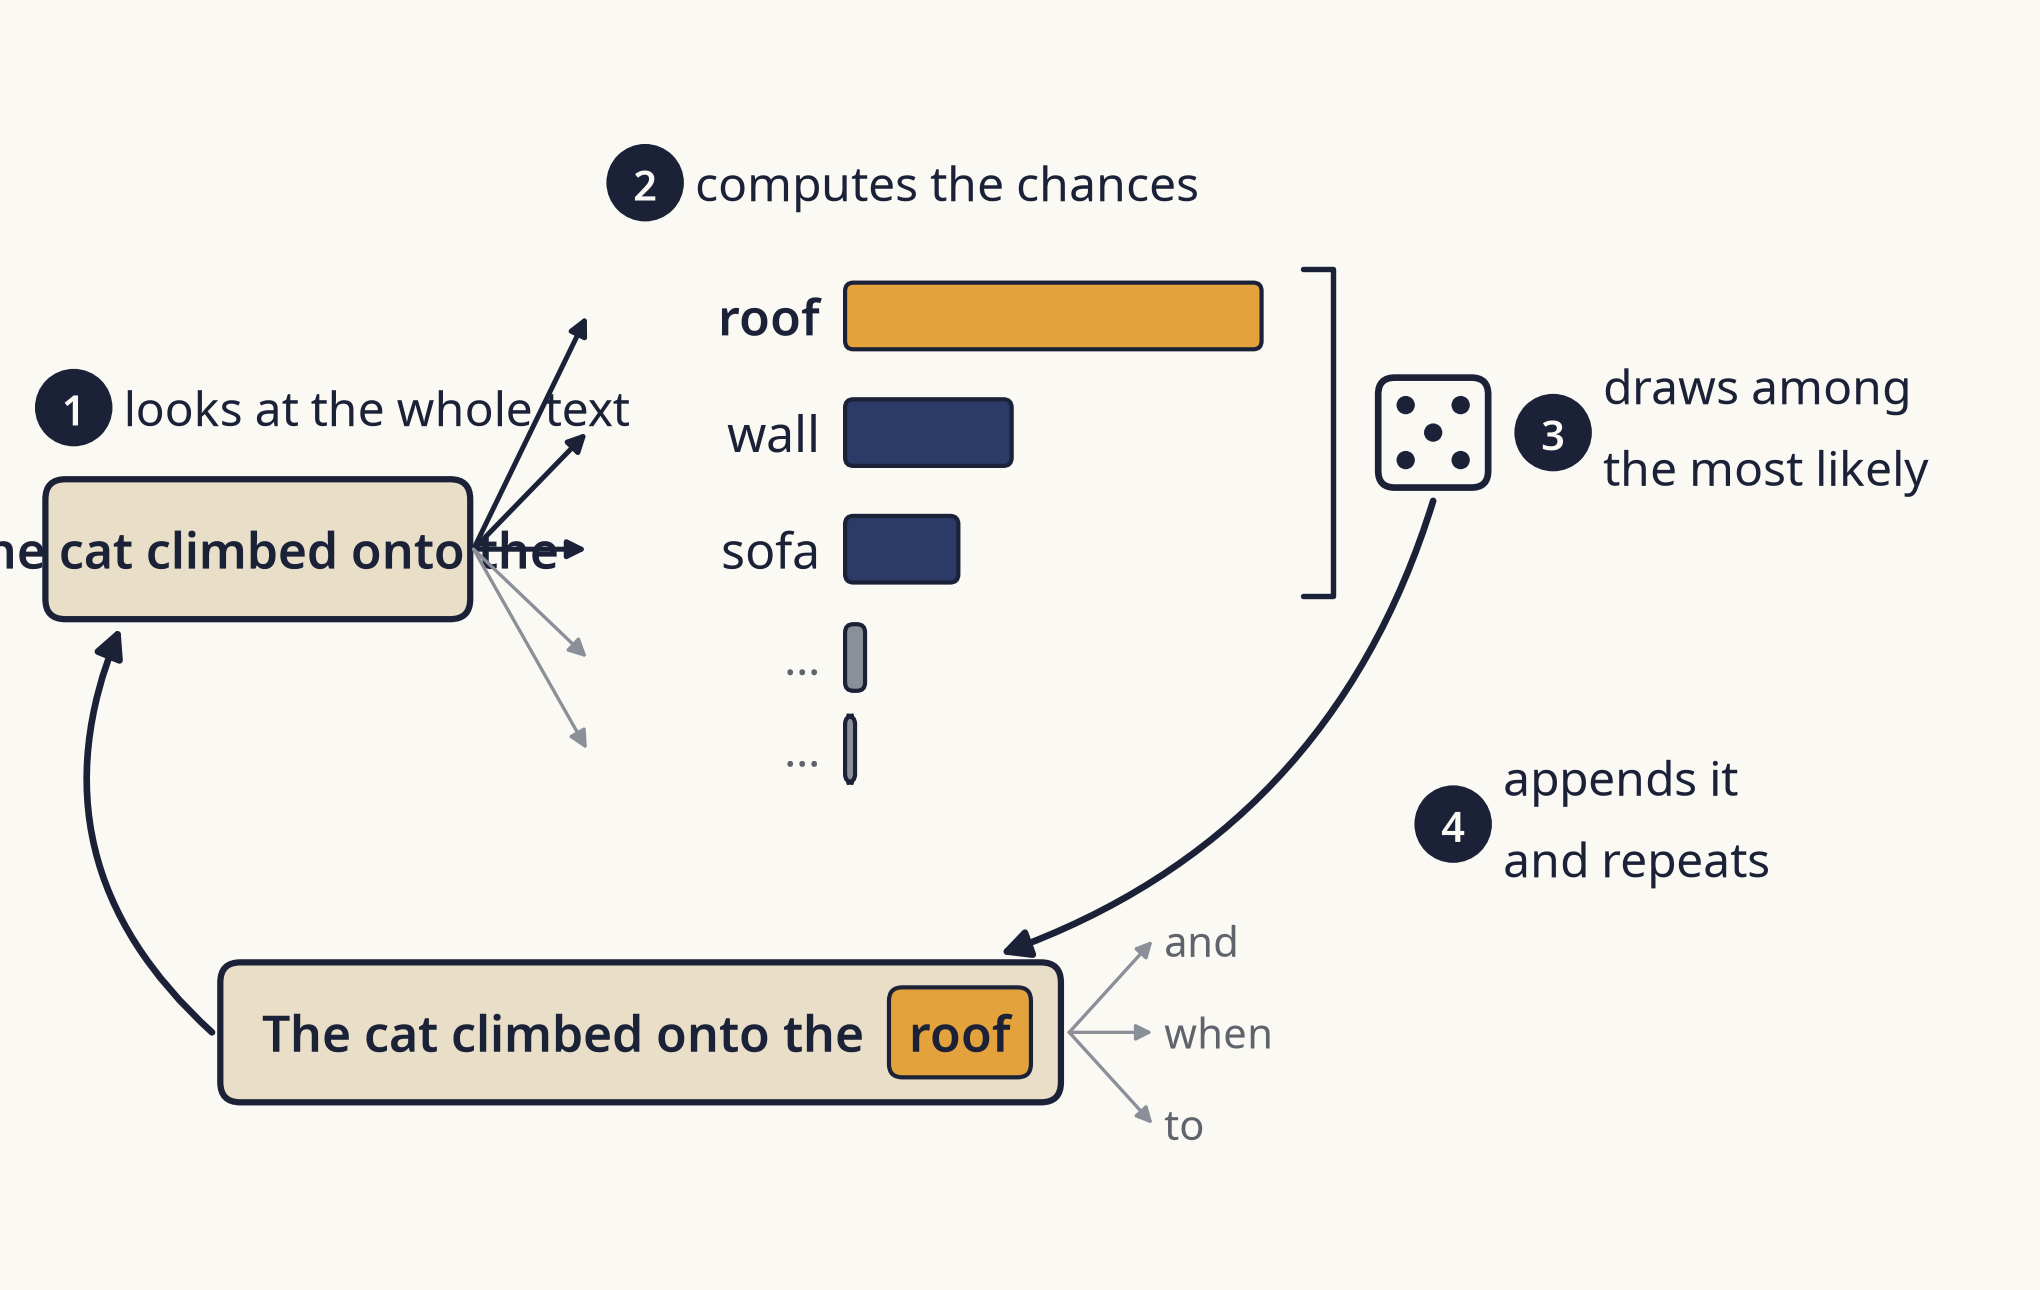
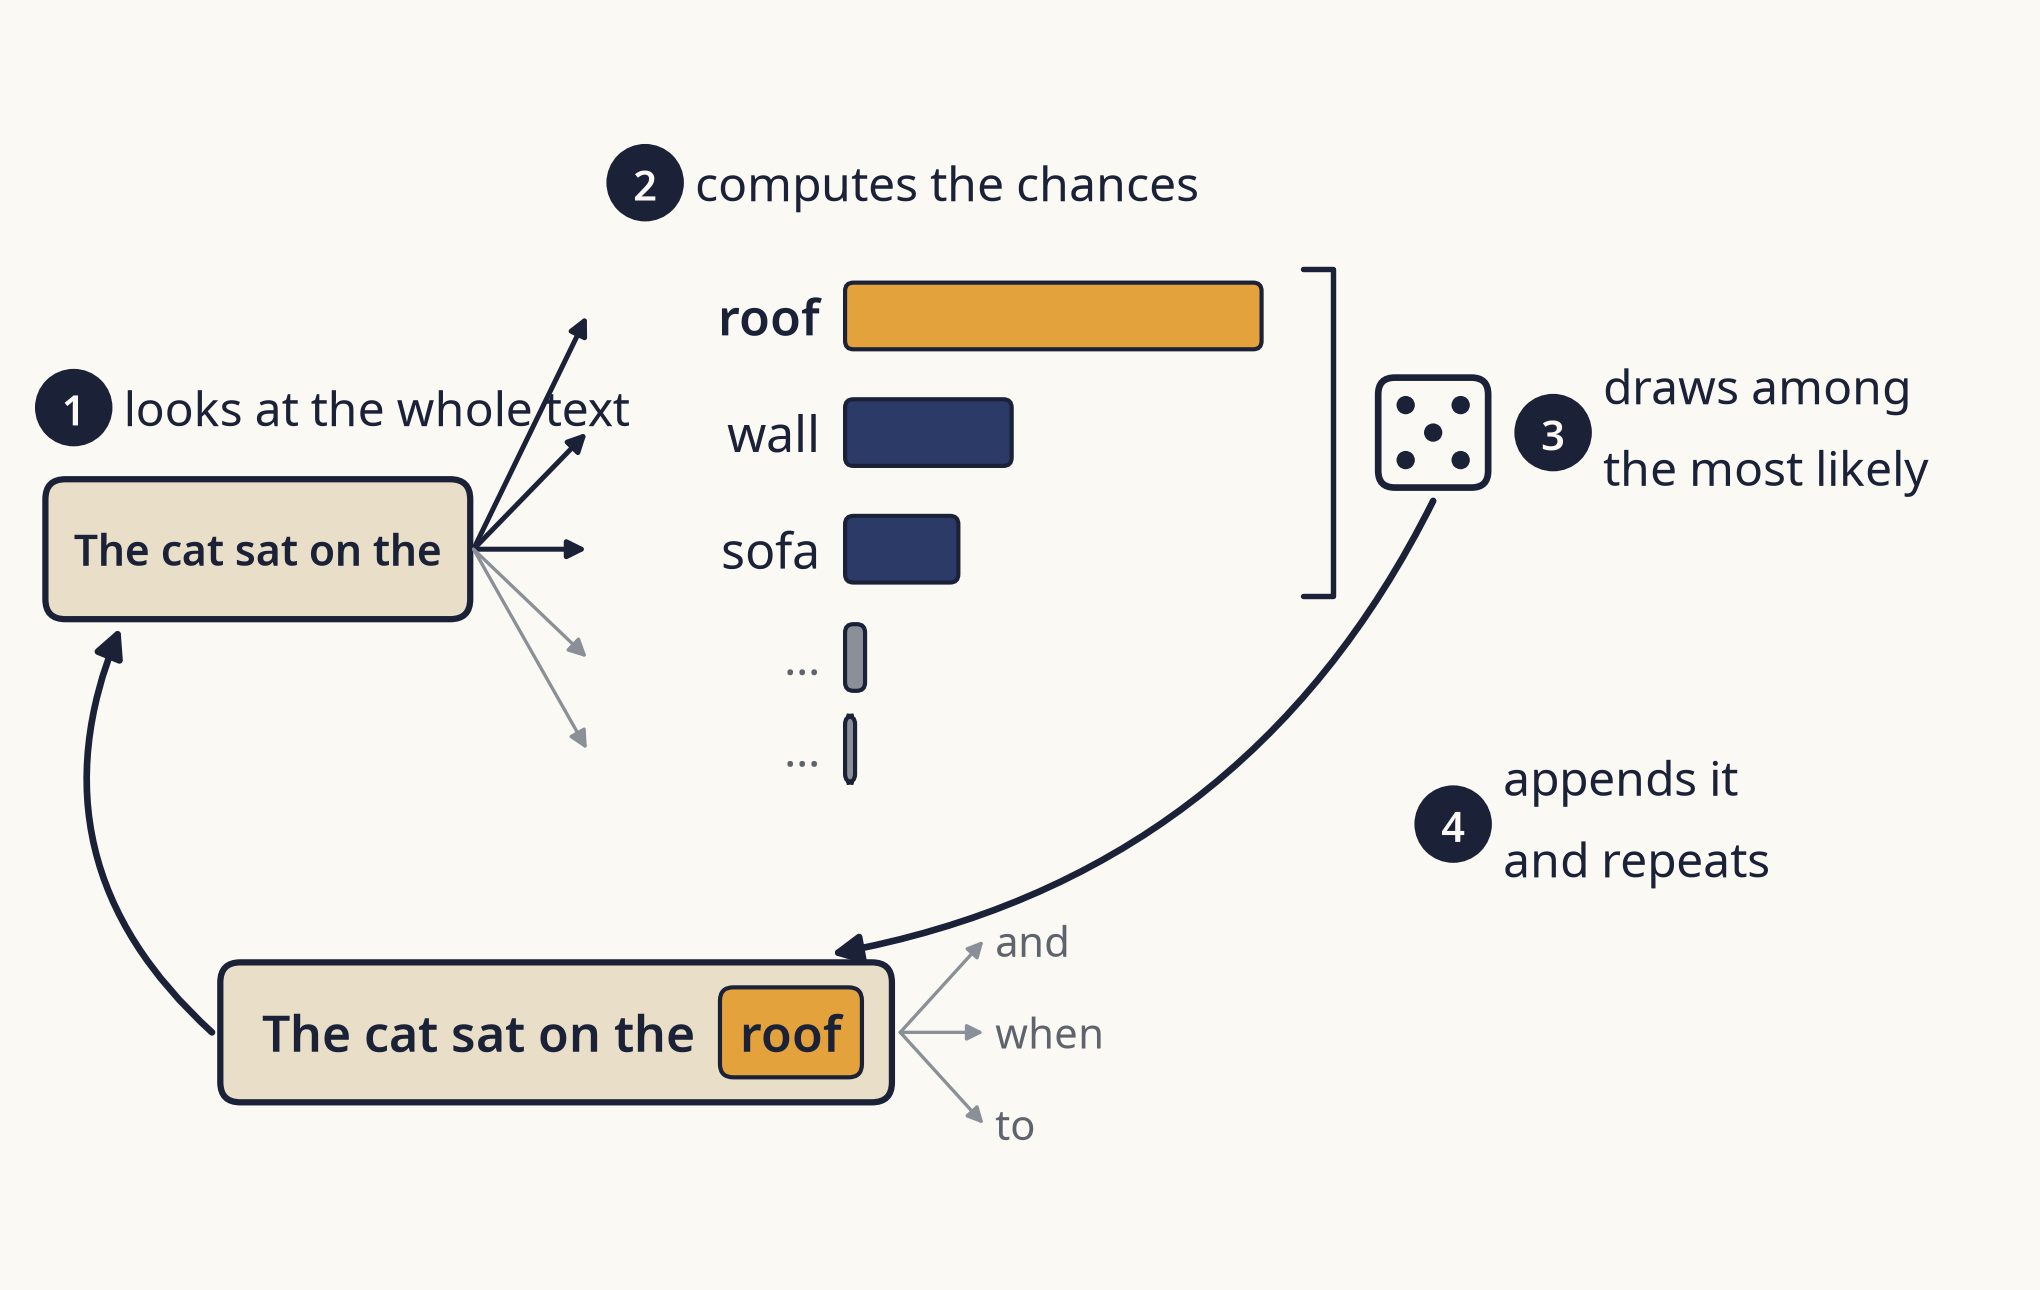
EN figures: shrink-to-fit labels in ch01/ch04 scripts; shorter EN labels so text fits its boxes

diff --git a/assets/charts/ch04-marca-dagua.py b/assets/charts/ch04-marca-dagua.py
@@ -34,7 +34,7 @@ L = {
     "pt": {"seg": ["O céu estava", "e a rua,", "…"], "f1": ("nublado", "cinzento"), "f2": ("vazia", "deserta"),
            "chave": "chave secreta", "muitas": "centenas de escolhas", "assin": "assinatura",
            "reesc": "reescrito por outro modelo", "some": "sinal some"},
-    "en": {"seg": ["The sky was", "and the street,", "…"], "f1": ("cloudy", "overcast"), "f2": ("empty", "deserted"),
+    "en": {"seg": ["The sky was", "the street", "…"], "f1": ("cloudy", "overcast"), "f2": ("empty", "deserted"),
            "chave": "secret key", "muitas": "hundreds of choices", "assin": "signature",
            "reesc": "rewritten by another model", "some": "signal gone"},
 }[LANG]
@@ -49,12 +49,27 @@ ax.axis("off")
 fig.subplots_adjust(0.01, 0.01, 0.99, 0.99)
 
 
+def fit_text(t, max_w, min_size=7.0):
+    """Shrink a text artist until it fits max_w (data units). Labels change
+    length between languages; the layout stays fixed and only the type size
+    gives way, never below min_size (house minimum ~7 pt)."""
+    fig.canvas.draw()
+    inv = ax.transData.inverted()
+    while t.get_fontsize() > min_size:
+        bb = t.get_window_extent(renderer=fig.canvas.get_renderer())
+        (x0, _), (x1, _) = inv.transform([(bb.x0, bb.y0), (bb.x1, bb.y1)])
+        if x1 - x0 <= max_w:
+            break
+        t.set_fontsize(t.get_fontsize() - 0.25)
+    return t
+
+
 def word(x, y, text, w, chosen=True, fc=PAPER, bold=False):
     ax.add_patch(FancyBboxPatch((x, y - 0.33), w, 0.66, boxstyle="round,pad=0,rounding_size=0.15", fc=fc,
                                 ec=INK if chosen else GRAY, lw=1.6 if chosen else 1.0,
                                 linestyle="-" if chosen else (0, (3, 2)), zorder=3))
-    ax.text(x + w / 2, y, text, ha="center", va="center", fontsize=11.5, color=INK if chosen else MUTED,
-            fontweight="semibold" if bold else "normal", zorder=4)
+    fit_text(ax.text(x + w / 2, y, text, ha="center", va="center", fontsize=11.5, color=INK if chosen else MUTED,
+                     fontweight="semibold" if bold else "normal", zorder=4), w - 0.25)
 
 
 def link(p, q, chosen):

diff --git a/assets/charts/ch01-proximo-token.py b/assets/charts/ch01-proximo-token.py
@@ -31,7 +31,7 @@ L = {
     "pt": {"prompt": "O gato subiu no", "s1": "olha o texto todo", "s2": "calcula as chances",
            "s3": "sorteia entre\nos mais prováveis", "s4": "cola no fim\ne repete",
            "cands": ["telhado", "muro", "sofá", "…", "…"], "next": ["e", "quando", "de"]},
-    "en": {"prompt": "The cat climbed onto the", "s1": "looks at the whole text", "s2": "computes the chances",
+    "en": {"prompt": "The cat sat on the", "s1": "looks at the whole text", "s2": "computes the chances",
            "s3": "draws among\nthe most likely", "s4": "appends it\nand repeats",
            "cands": ["roof", "wall", "sofa", "…", "…"], "next": ["and", "when", "to"]},
 }[LANG]
@@ -57,11 +57,26 @@ def arrow(p, q, color=INK, lw=1.4, rad=0.0, ms=12, ls="-"):
                                  connectionstyle=f"arc3,rad={rad}", shrinkA=0, shrinkB=0, zorder=3))
 
 
+
+def fit_text(t, max_w, min_size=7.0):
+    """Shrink a text artist until it fits max_w (data units). Labels change
+    length between languages; the layout stays fixed and only the type size
+    gives way, never below min_size (house minimum ~7 pt)."""
+    fig.canvas.draw()
+    inv = ax.transData.inverted()
+    while t.get_fontsize() > min_size:
+        bb = t.get_window_extent(renderer=fig.canvas.get_renderer())
+        (x0, _), (x1, _) = inv.transform([(bb.x0, bb.y0), (bb.x1, bb.y1)])
+        if x1 - x0 <= max_w:
+            break
+        t.set_fontsize(t.get_fontsize() - 0.25)
+    return t
+
 # 1 - the prompt
 PY = 4.25
 ax.add_patch(FancyBboxPatch((0.15, PY - 0.42), 2.55, 0.84, boxstyle="round,pad=0,rounding_size=0.12",
                             fc=SAND, ec=INK, lw=1.5, zorder=2))
-ax.text(1.425, PY, L["prompt"], ha="center", va="center", fontsize=12, fontweight="semibold", zorder=3)
+fit_text(ax.text(1.425, PY, L["prompt"], ha="center", va="center", fontsize=12, fontweight="semibold", zorder=3), 2.55 - 0.3)
 badge(0.32, PY + 0.85, 1)
 ax.text(0.62, PY + 0.85, L["s1"], ha="left", va="center", fontsize=11.5)
 

diff --git a/book/en/ch01.md b/book/en/ch01.md
@@ -4,12 +4,13 @@ chapter: "A Very Good Text Generator"
 sources:
[6 lines of base64/hex data omitted]
 refs_projects: []
 blog_commit: "b9c029231693369b8f895576b491c878aea3e8da"
[2 lines of base64/hex data omitted]
 ---
 
 # A Very Good Text Generator {#sec-ch01}
@@ -17,7 +18,8 @@ translated_from: {file: book/pt/ch01.md, sha256: "0340faf1869ac7fceec26042345af4
 <!-- src: 2026/02/08/rant-ia-acabou-com-programadores -->
 In early February 2026, my name started circulating in video clips. They were snippets of a conversation I had recorded in June 2025 on Flow Podcast, one of the biggest talk shows in Brazil, in an episode called *Mentiram pra você sobre inteligência artificial* ("They lied to you about artificial intelligence") [@flow2025mentiram]. Hours of conversation became one-minute pieces, and the pieces became a line I never said: "Akita said AI will never replace any programmer."
 
-The timing was bad for that version. In January I had spent weeks doing exactly the opposite of what the clips suggested: programming with AI every day and publishing every experiment on the blog, from an app built entirely with a Chinese model to a text editor built in three days (that marathon is Part II of this book).
+<!-- src: 2026/02/01/vibe-code-fiz-um-editor-de-markdown-do-zero-com-claude-code-frankmd-part-1 -->
+The timing was bad for that version. I was doing exactly the opposite of what the clips suggested: programming with AI every day and publishing every experiment on the blog. On the first day of February, I had written about how I built a text editor in three days without writing a single line of code (that marathon is Part II of this book).
 
 <!-- src: 2026/02/24/rant-o-akita-abriu-as-pernas-pra-ia -->
 So the heat came from both sides. One crowd said I was an enemy of AI who had been dead wrong. The other said I had sold out, that after years of criticizing the hype I had caved to it. Both crowds were answering an Akita who didn't exist.
@@ -63,7 +65,7 @@ Now the whole mechanism. You send a piece of text, which in the jargon is called
 
 That chosen token gets glued onto the end of the text. And the process starts over from scratch with the text one piece longer: look at everything, calculate the chances, draw, glue, repeat. A three-paragraph answer takes hundreds of turns of this loop, one piece at a time.
 
-![Each turn of the loop calculates the chances of the next pieces, draws one and starts over with the longer text.](assets/figures/en/ch01-proximo-token.png){#fig-ch01-proximo-token fig-alt="A starting text, 'The cat climbed onto the', on the left. Arrows lead from it to several possible pieces, each with a bar showing its chance: 'roof' with the biggest bar, 'wall' and 'sofa' smaller, others almost invisible. A die marks the draw. The chosen piece is glued onto the text, and the process repeats from the longer sentence, forming a path that branches out."}
+![Each turn of the loop calculates the chances of the next pieces, draws one and starts over with the longer text.](assets/figures/en/ch01-proximo-token.png){#fig-ch01-proximo-token fig-alt="A starting text, 'The cat sat on the', on the left. Arrows lead from it to several possible pieces, each with a bar showing its chance: 'roof' with the biggest bar, 'wall' and 'sofa' smaller, others almost invisible. A die marks the draw. The chosen piece is glued onto the text, and the process repeats from the longer sentence, forming a path that branches out."}
 
 <!-- src: original -->
 Notice the draw. It explains why the same question, asked twice, can get two different answers.
